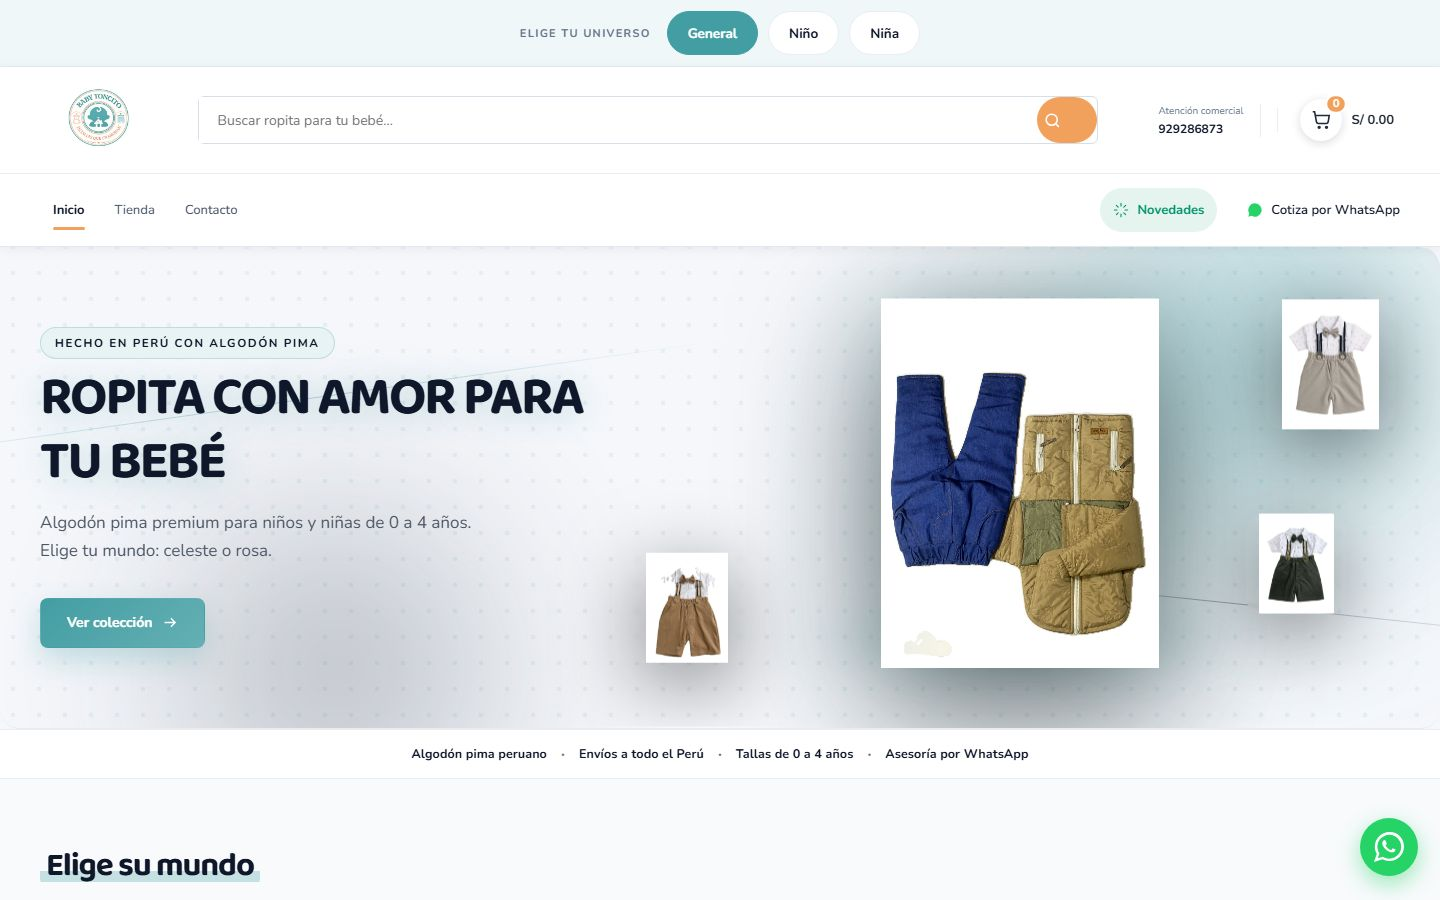
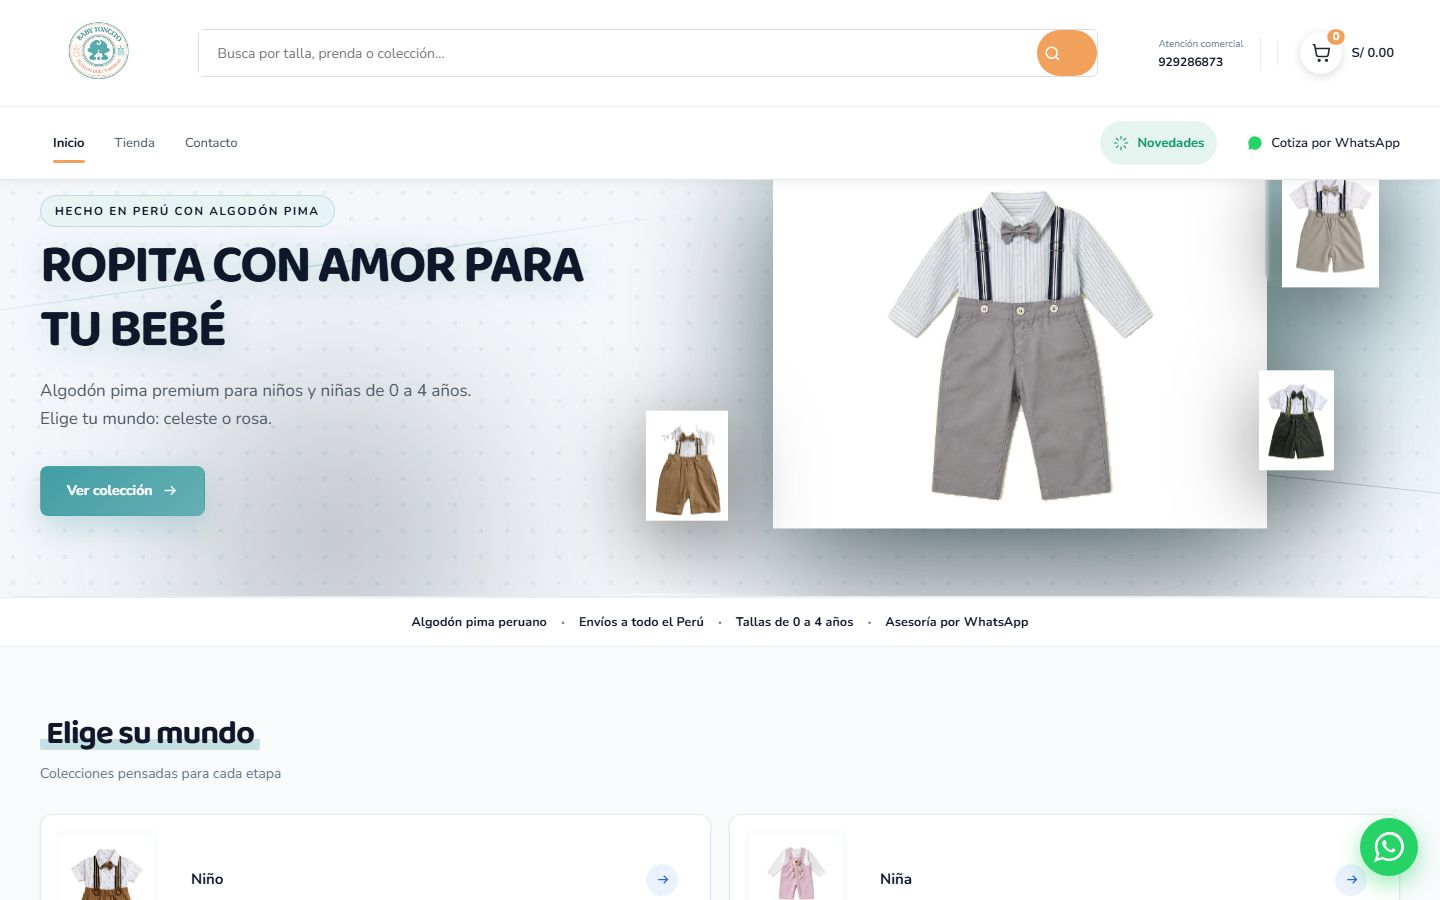
feat(tiendas): estructura de portada de las consultorias y encabezado movil
Estructura
- Portadas reordenadas segun la seccion D de cada consultoria: beneficios
  pegados al hero y un solo bloque de ofertas por tienda.
- Secciones nuevas: servicio tecnico (Tecsist), preguntas frecuentes
  (MegaHogar), por que algodon pima y venta por mayor (Baby Toncito).
- El borrador del constructor pisaba el orden publicado: se sincronizan.

Presentacion
- Color de oferta propio (sale_color), separado del acento: el acento tambien
  pinta buscador y carrito, y cambiarlo los tenia de naranja.
- Encabezado movil en dos filas: menu + logo + carrito arriba, buscador debajo.
  MegaHogar pasa de 309 a 161px antes del contenido.
- Barra superior de una linea desplazable en movil, sin redes duplicadas.
- Hero acotado tambien en movil: la foto ya no decide el alto del banner.
- Banda informativa y bloque Nosotros sin colores fijos: salen del tema.
- Buscadores con ejemplo de lo que se puede buscar en cada tienda.

diff --git a/resources/views/public/templates/computienda.blade.php b/resources/views/public/templates/computienda.blade.php
@@ -49,6 +49,10 @@
     // Color de acento: detalles institucionales (iconos, líneas, etiquetas).
     // Configurable desde el Constructor; si no se define cae al primario.
     $accent = $color($settings['accent_color'] ?? null, $primary);
+    // Color reservado a ofertas y precios rebajados. Separado del acento
+    // porque el acento tambien pinta el encabezado: si se cambia por el de
+    // ofertas, el buscador y el carrito se tinen del mismo color.
+    $saleColor = $color($settings['sale_color'] ?? null, $accent);
     $headerBg = $color($settings['header_bg_color'] ?? null, '#ffffff');
     $headerText = $color($settings['header_text_color'] ?? null, '#0f172a');
     $heroBg = $color($settings['hero_bg_color'] ?? null, '#f1f5f9');
@@ -823,6 +827,7 @@
           --primary:{{ $primary }};
           --secondary:{{ $secondary }};
           --accent:{{ $accent }};
+          --sale:{{ $saleColor }};
           --header-bg:{{ $headerBg }};
           --header-text:{{ $headerText }};
           --hero-bg:{{ $heroBg }};
@@ -2353,7 +2358,23 @@
     #storefront-main .premium-hero .ph-main img{max-height:{{ max(140, min(820, $heroPxDesktop - 90)) }}px;width:auto;max-width:100%;margin-inline:auto;display:block}
     @endif
     @if($heroPxMobile > 0)
-    @media(max-width:760px){#storefront-main .premium-hero{min-height:{{ max(180, min(900, $heroPxMobile)) }}px!important}}
+    @media(max-width:760px){
+        {{-- En movil pasaba lo mismo que en escritorio: la foto era mas alta que
+             el banner y el alto pedido no se cumplia. Se acota tambien aqui. --}}
+        {{-- Sin max-height: recortar el banner cortaba el boton de la portada.
+             Se acota la foto, y el texto decide el alto minimo real. --}}
+        #storefront-main .premium-hero{min-height:{{ max(180, min(900, $heroPxMobile)) }}px!important}
+        {{-- En movil el texto y la foto se apilan: si la foto ocupa 420px, el
+             banner mide el doble de lo pedido. Se acota el bloque visual. --}}
+        {{-- El interior traia 48+96px de relleno en movil: con un alto pedido
+             esos 144px son casi la mitad del banner. --}}
+        #storefront-main .premium-hero .premium-hero-inner{padding-top:26px!important;padding-bottom:34px!important;gap:18px}
+        #storefront-main .premium-hero .premium-hero-copy,
+        #storefront-main .premium-hero .ph-slide-copy{padding-block:0!important}
+        #storefront-main .premium-hero .premium-hero-visual{max-height:{{ max(100, min(420, (int) ($heroPxMobile * 0.45))) }}px;overflow:hidden}
+        #storefront-main .premium-hero .ph-main,
+        #storefront-main .premium-hero .ph-main img{max-height:{{ max(100, min(420, (int) ($heroPxMobile * 0.45))) }}px;width:auto;max-width:100%;margin-inline:auto;display:block}
+    }
     @endif
     .premium-hero{min-height:clamp(360px,46vh,var(--hero-desktop-h,520px))!important;border-radius:0 0 24px 24px;overflow:hidden}
     /* El hero es una seccion a sangre completa: el relleno generico de <section>
@@ -2543,7 +2564,10 @@
     .catalog-card-name,.pf-card-name{font-weight:700!important;color:var(--secondary);display:-webkit-box;-webkit-line-clamp:2;-webkit-box-orient:vertical;overflow:hidden;min-height:2.6em;padding-left:2px;margin-left:-2px}
     .catalog-card-price,.pf-price-now{font-size:19px!important;font-weight:800!important;color:var(--secondary)}
     .catalog-card-compare{color:#94a3b8;text-decoration:line-through;font-size:12px}
-    .catalog-discount,.catalog-card-percent,.badge-sale{background:var(--primary)!important;color:#fff;font-weight:800;border-radius:8px;letter-spacing:.02em}
+    /* El descuento iba en el color primario: en una tienda monocromatica no
+   destacaba nada. Va en el acento, que existe justo para esto. */
+    .catalog-discount,.catalog-card-percent,.badge-sale{background:var(--sale)!important;color:#fff;font-weight:800;border-radius:var(--r-btn,8px);letter-spacing:.02em}
+    #storefront-main .catalog-card-price.is-sale,#storefront-main .pdp-price.is-sale{color:var(--sale)}
     .catalog-sold-out{background:#334155!important;border-radius:8px}
     .catalog-card-action,.pf-card-action{font-weight:700!important;letter-spacing:.01em;border-radius:10px!important}
     /* Catálogo: grid aireado + panel de filtros con tarjeta */

diff --git a/resources/views/storefront/partials/headers/preset-shell.blade.php b/resources/views/storefront/partials/headers/preset-shell.blade.php
@@ -517,6 +517,48 @@
     /* Barra corporativa B2B */
     .hpx-corp{background:var(--secondary);color:#fff}
     .hpx-corp-inner{display:flex;flex-wrap:wrap;align-items:center;justify-content:center;gap:8px 12px;padding:8px 16px;font-size:12.5px}
+    /* Encabezado movil en dos filas fijas: menu + logo + carrito arriba y el
+       buscador debajo. Antes el logo empujaba el carrito a una tercera fila y
+       la cabecera se comia 245px de una pantalla de 844. */
+    @media(max-width:760px){
+        /* El contenedor dejaba 48px de margen a cada lado en una pantalla de
+           390: la cabecera no cabia y se salia por la derecha. */
+        .hpx-main.container{width:calc(100% - 28px)!important;max-width:none!important;
+            margin-inline:auto!important;
+            display:grid!important;grid-template-columns:44px minmax(0,1fr) auto;
+            grid-template-areas:'menu marca acciones' 'buscar buscar buscar';
+            align-items:center;gap:10px;padding-block:8px}
+        .hpx-main > .header-hamburger{grid-area:menu}
+        .hpx-main > .brand{grid-area:marca;justify-self:center;min-width:0!important;max-width:100%}
+        .hpx-main .brand img,.hpx-main .brand-logo{max-height:48px!important;width:auto;max-width:100%;object-fit:contain}
+        .hpx-main > .header-actions,.hpx-main > .hpx-act{grid-area:acciones;justify-self:end}
+        .hpx-main > .hpx-searchbox{grid-area:buscar;width:100%;min-width:0}
+    }
+    /* La barra superior envolvia sus mensajes en dos filas y el contenedor
+       dejaba 48px de margen a cada lado. En movil: una linea desplazable. */
+    @media(max-width:760px){
+        .hpx-topbar-inner.container{width:calc(100% - 24px)!important;max-width:none!important;
+            margin-inline:auto!important;padding-inline:0!important}
+        .hpx-topbar-left,.hpx-topbar-right{flex-wrap:nowrap!important;white-space:nowrap}
+        .hpx-topbar-left > *,.hpx-topbar-right > *{flex:0 0 auto}
+        .hpx-topbar-inner{min-height:38px}
+        .hpx-topbar-left{gap:14px}
+    }
+    /* Cualquier barra superior en movil: una linea desplazable, sin redes. */
+    @media(max-width:760px){
+        .hpx-topbar .container,.hpx-topbar > div{flex-wrap:nowrap!important;
+            overflow-x:auto;white-space:nowrap;scrollbar-width:none}
+        .hpx-topbar .container::-webkit-scrollbar,.hpx-topbar > div::-webkit-scrollbar{display:none}
+    }
+    /* En movil esta barra medía 139px: dos lineas de texto envueltas y tres
+       iconos de 44px que ya estan en el pie. Queda en una linea desplazable. */
+    @media(max-width:760px){
+        .hpx-corp-inner{flex-wrap:nowrap;justify-content:flex-start;overflow-x:auto;
+            white-space:nowrap;padding:6px 14px;font-size:11.5px;min-height:36px;scrollbar-width:none}
+        .hpx-corp-inner::-webkit-scrollbar{display:none}
+        .hpx-corp-inner .hpx-topbar-social,.hpx-corp .hpx-topbar-social{display:none}
+        .hpx-corp-inner a{min-height:36px}
+    }
     .hpx-corp a{color:#fff;font-weight:700;text-decoration:none}
     .hpx-corp svg{width:14px;height:14px;vertical-align:-2px}
     .hpx-corp-sep{opacity:.4}
@@ -594,6 +636,17 @@
     }
     /* Topbar rica (spec): 3 mensajes con ícono a la izquierda + accesos a la derecha */
     .hpx-topbar{font-size:12.5px}
+    /* En movil la barra superior se comia 130px de la primera pantalla con dos
+       lineas de texto y tres iconos de 44px que ya estan en el pie. Se deja una
+       sola linea, desplazable, y se ocultan las redes. */
+    @media(max-width:760px){
+        .hpx-topbar{font-size:11.5px}
+        .hpx-topbar .container{display:flex;align-items:center;gap:10px;min-height:34px;
+            overflow-x:auto;white-space:nowrap;scrollbar-width:none}
+        .hpx-topbar .container::-webkit-scrollbar{display:none}
+        .hpx-topbar-social{display:none}
+        .hpx-topbar a{min-height:34px}
+    }
     .hpx-topbar-inner{display:flex;align-items:center;justify-content:space-between;gap:20px;min-height:40px}
     .hpx-topbar-left{display:flex;align-items:center;gap:30px;flex-wrap:wrap}
     .hpx-topbar-right{display:flex;align-items:center;gap:22px}

diff --git a/resources/views/public/templates/partials/computienda-home-extras.blade.php b/resources/views/public/templates/partials/computienda-home-extras.blade.php
@@ -537,17 +537,19 @@
 @endphp
 @if($isHomeSectionVisible('info_strip') && $isItems->isNotEmpty())
 <style>
-    .xs-strip{display:grid;grid-template-columns:repeat({{ max(1, $isItems->count()) }},minmax(0,1fr));min-height:128px;background:#F7F5F1;border:1px solid #E7DFD4;border-radius:10px;overflow:hidden}
-    .xs-strip-item{display:flex;align-items:center;gap:16px;padding:20px 24px;border-left:1px solid #E7DFD4;color:inherit;text-decoration:none}
+    /* El crema y el borde arena venian fijos: en una tienda tecnologica se leian
+       como un bloque prestado de otra marca. Ahora salen del tema. */
+    .xs-strip{display:grid;grid-template-columns:repeat({{ max(1, $isItems->count()) }},minmax(0,1fr));min-height:128px;background:var(--surface-soft,#f8fafc);border:1px solid var(--border,#e2e8f0);border-radius:var(--r-block,12px);overflow:hidden}
+    .xs-strip-item{display:flex;align-items:center;gap:16px;padding:20px 24px;border-left:1px solid var(--border,#e2e8f0);color:inherit;text-decoration:none}
     .xs-strip-item:first-child{border-left:0}
-    .xs-strip-media{flex:0 0 auto;display:grid;place-items:center;width:76px;height:76px;border-radius:8px;overflow:hidden;background:#fff}
+    .xs-strip-media{flex:0 0 auto;display:grid;place-items:center;width:76px;height:76px;border-radius:var(--r-btn,8px);overflow:hidden;background:var(--surface,#fff)}
     .xs-strip-media img{width:100%;height:100%;object-fit:cover}
     .xs-strip-media svg{width:34px;height:34px;color:var(--secondary)}
     .xs-strip-copy{min-width:0}
     .xs-strip-copy strong{display:block;color:var(--text-strong);font-size:14px;font-weight:700;line-height:1.3}
     .xs-strip-copy span{display:block;margin-top:5px;color:var(--muted);font-size:12.5px;line-height:1.45}
-    @media(max-width:980px){.xs-strip{grid-template-columns:repeat(2,minmax(0,1fr))}.xs-strip-item:nth-child(3){border-left:0}.xs-strip-item:nth-child(n+3){border-top:1px solid #E7DFD4}}
-    @media(max-width:560px){.xs-strip{grid-template-columns:1fr}.xs-strip-item{border-left:0;border-top:1px solid #E7DFD4}.xs-strip-item:first-child{border-top:0}}
+    @media(max-width:980px){.xs-strip{grid-template-columns:repeat(2,minmax(0,1fr))}.xs-strip-item:nth-child(3){border-left:0}.xs-strip-item:nth-child(n+3){border-top:1px solid var(--border,#e2e8f0)}}
+    @media(max-width:560px){.xs-strip{grid-template-columns:1fr}.xs-strip-item{border-left:0;border-top:1px solid var(--border,#e2e8f0)}.xs-strip-item:first-child{border-top:0}}
 </style>
 <section class="xs-section" data-store-native-section="info_strip" style="order:{{ $sectionOrder('info_strip') }}"><div class="container">
     @if(filled($isC['title'] ?? null))<div class="xs-head"><h2>{{ $isC['title'] }}</h2>@if(filled($isC['subtitle'] ?? null))<p>{{ $isC['subtitle'] }}</p>@endif</div>@endif
@@ -590,6 +592,10 @@
 <style>
     .xs-about{display:grid;grid-template-columns:minmax(0,5fr) minmax(0,7fr);gap:clamp(26px,4vw,54px);align-items:center}
     .xs-about--no-img{grid-template-columns:1fr;max-width:820px;margin:0 auto;text-align:center}
+    /* Si la tienda alinea sus titulos a la izquierda, este bloque no puede
+       ser el unico centrado: rompia la lectura de la columna. */
+    body:not(.section-heading-center) .xs-about--no-img{margin-inline:0;text-align:left}
+    body:not(.section-heading-center) .xs-about--no-img .xs-about-label:after{margin-left:0}
     .v-image-right .xs-about .xs-about-media{order:2}
     .xs-about-media{position:relative;border-radius:var(--radius-lg);overflow:hidden;box-shadow:var(--shadow-md)}
     .xs-about-media img{display:block;width:100%;height:100%;min-height:300px;max-height:460px;object-fit:cover}

diff --git a/docs/auditoria/validacion-consultorias.md b/docs/auditoria/validacion-consultorias.md
@@ -89,6 +89,40 @@ producto por vista, y sitemap con las direcciones nuevas.
 
 ---
 
+## Estructura de portada (sección D de cada consultoría)
+
+Orden verificado en producción, de arriba abajo:
+
+| Tecsist | Baby Toncito | MegaHogar |
+|---|---|---|
+| Hero | Hero | Hero |
+| Beneficios | Beneficios | Beneficios |
+| Promociones* | Elige su mundo | Compra por ambiente |
+| Explora por categoría | Por qué algodón pima | Lo más vendido |
+| Ofertas de la semana | Nuestros favoritos | Formas de pago y entrega |
+| Lo más vendido | Tallas y cuidado | Nosotros |
+| Servicio técnico | Venta por mayor | Asesoría por WhatsApp |
+| Asesoría por WhatsApp | Conoce Baby Toncito | Preguntas frecuentes |
+| Nosotros | Asesoría por WhatsApp | |
+
+\* Promociones no figura en la estructura recomendada; se conserva porque la tienda
+ya la tenía y se movió detrás de beneficios.
+
+**Falta de la estructura recomendada:** el bloque de marcas en Tecsist y MegaHogar
+(necesita los logotipos) y el de ofertas en MegaHogar (necesita descuentos reales).
+
+## Presentación
+
+- Tecsist: color de oferta naranja `#F97316` separado del acento del encabezado
+  (un `sale_color` propio, para que el buscador y el carrito no se tiñan);
+  hero de 440/340 px; carrusel de 3 diapositivas.
+- MegaHogar: buscador con ejemplo ("Busca tu sofá, colchón o refrigeradora…");
+  4 ambientes en móvil de los 8; hero 480/374 px.
+- Baby Toncito: hero 460 px; buscador por talla; guía de tallas y venta por mayor.
+- Las tres: encabezado móvil en dos filas (menú + logo + carrito, buscador debajo).
+  MegaHogar pasó de 309 a 161 px antes del contenido.
+- Banda informativa y bloque Nosotros ya no traen colores fijos: salen del tema.
+
 ## Lo que sigue dependiendo del cliente
 
 - **MegaHogar**: fotografías de producto, medios de pago, logotipos de marcas.
